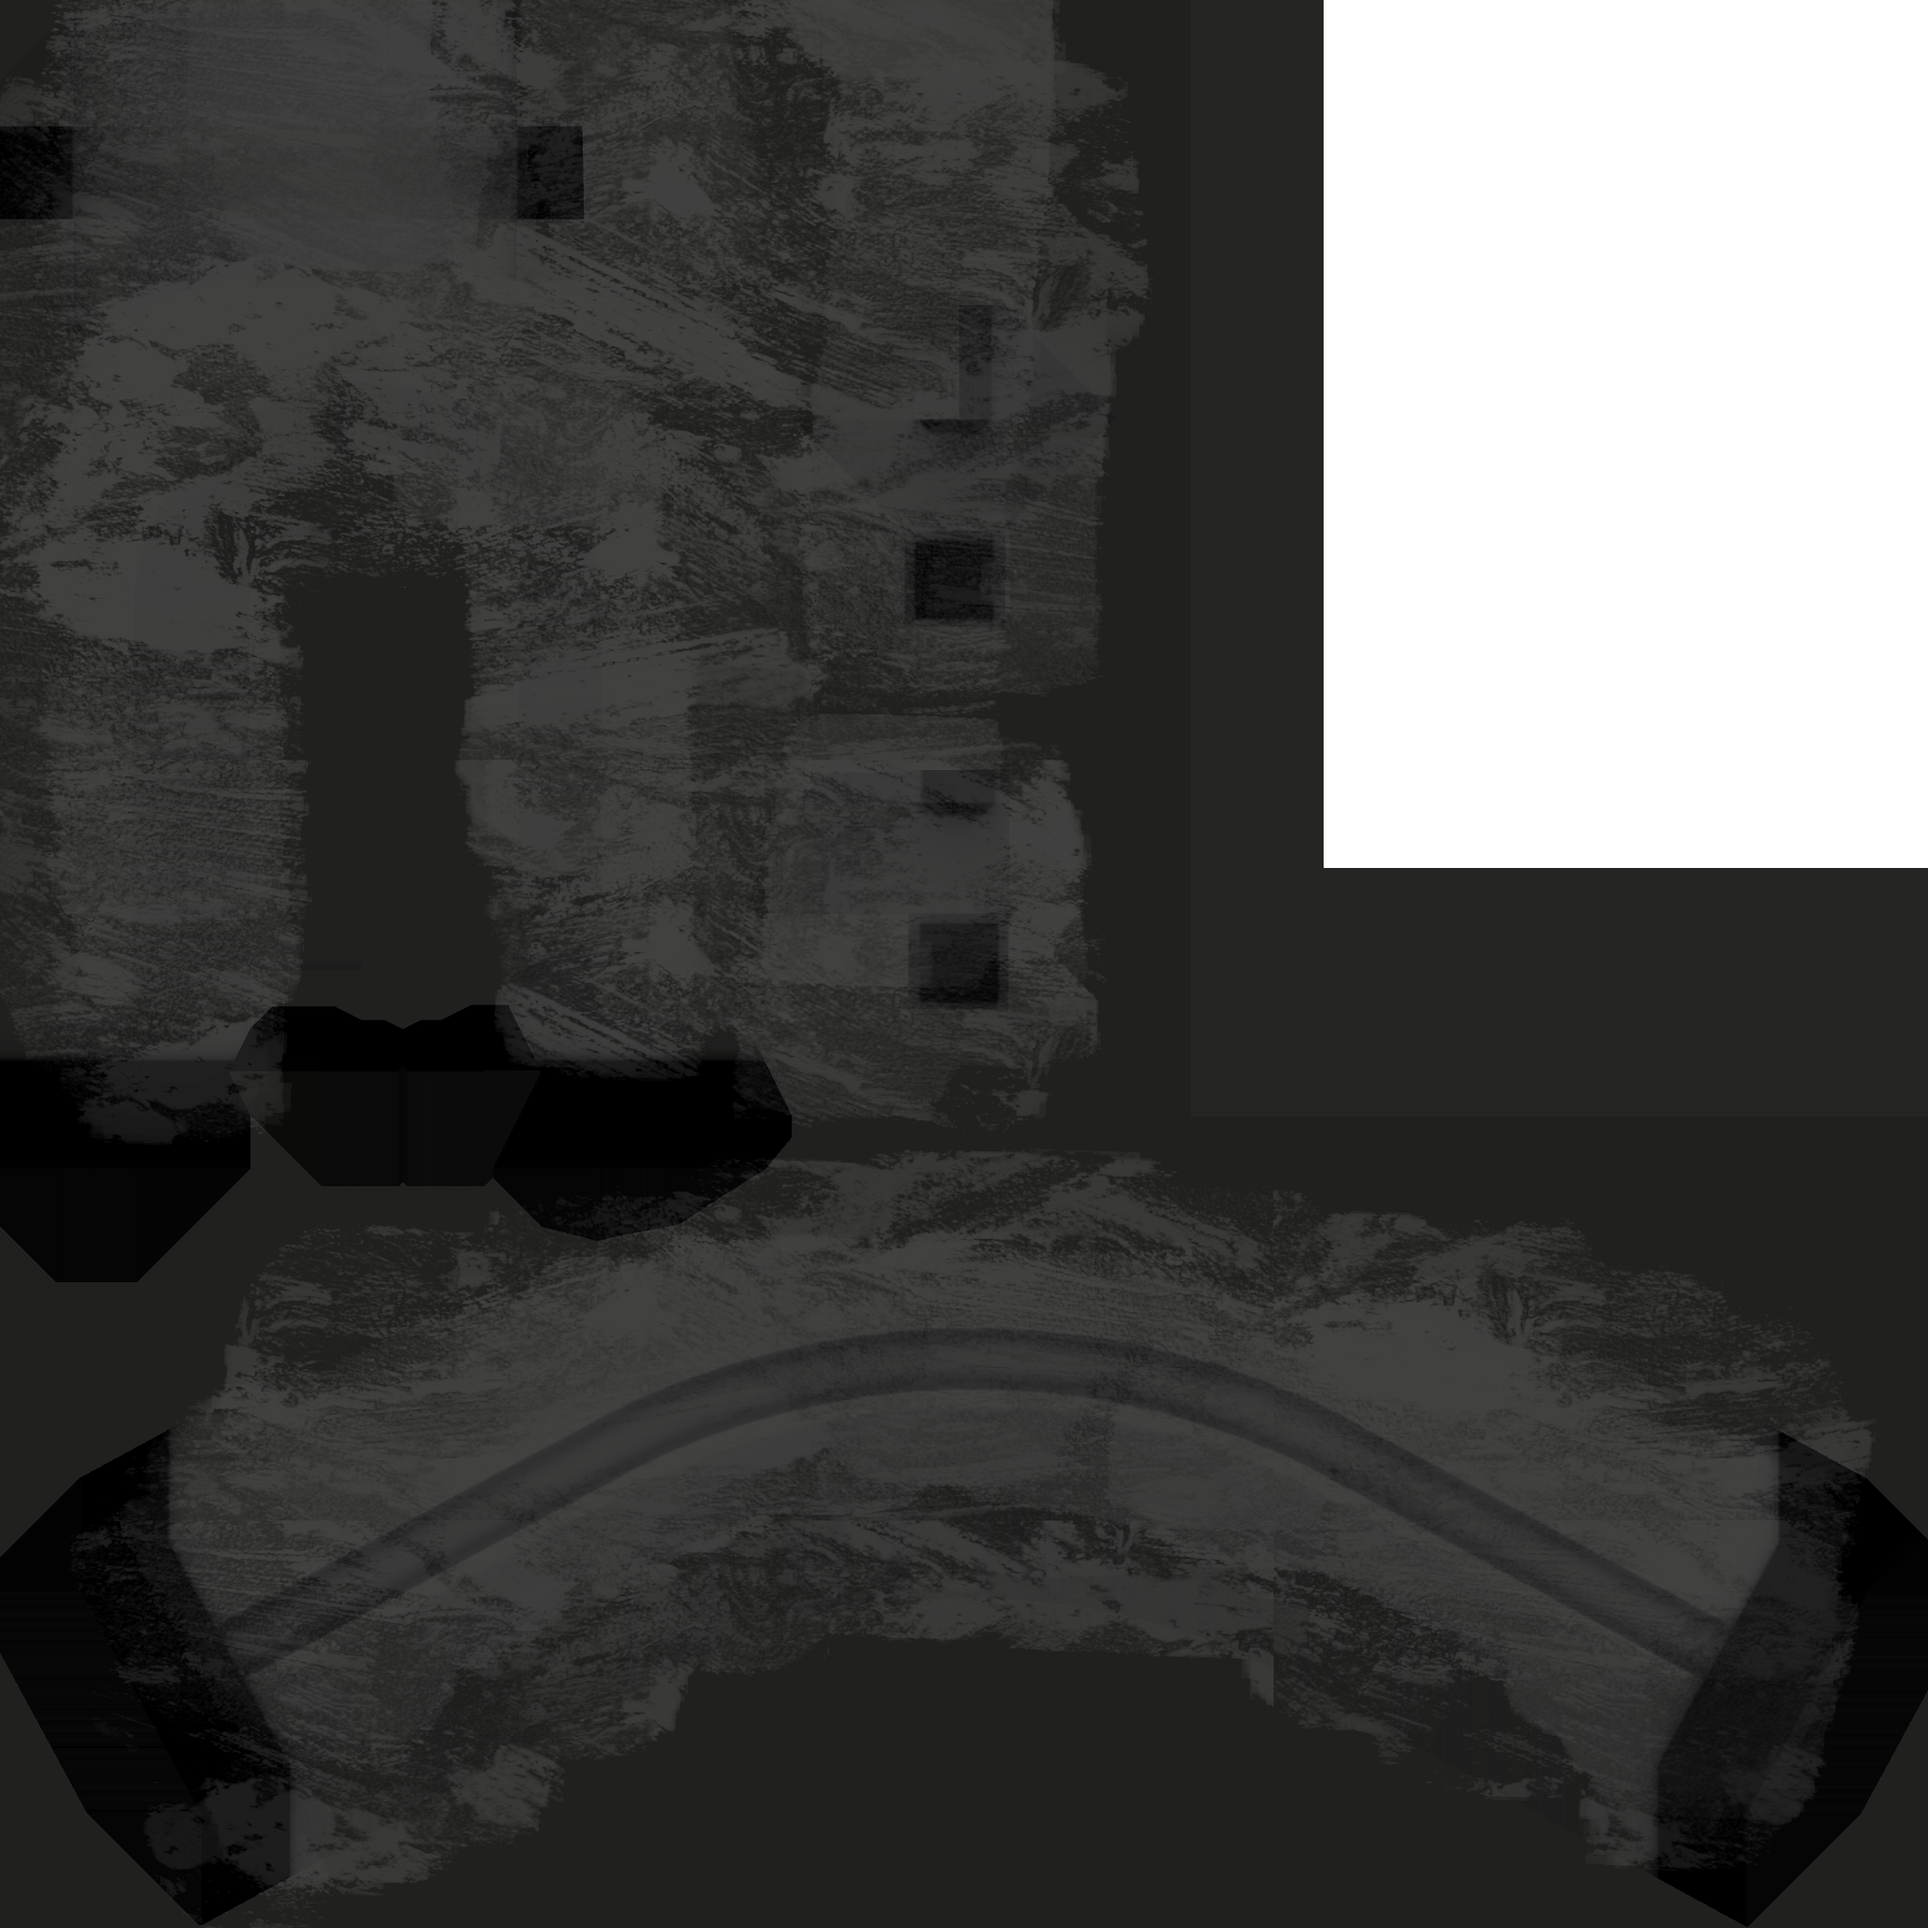
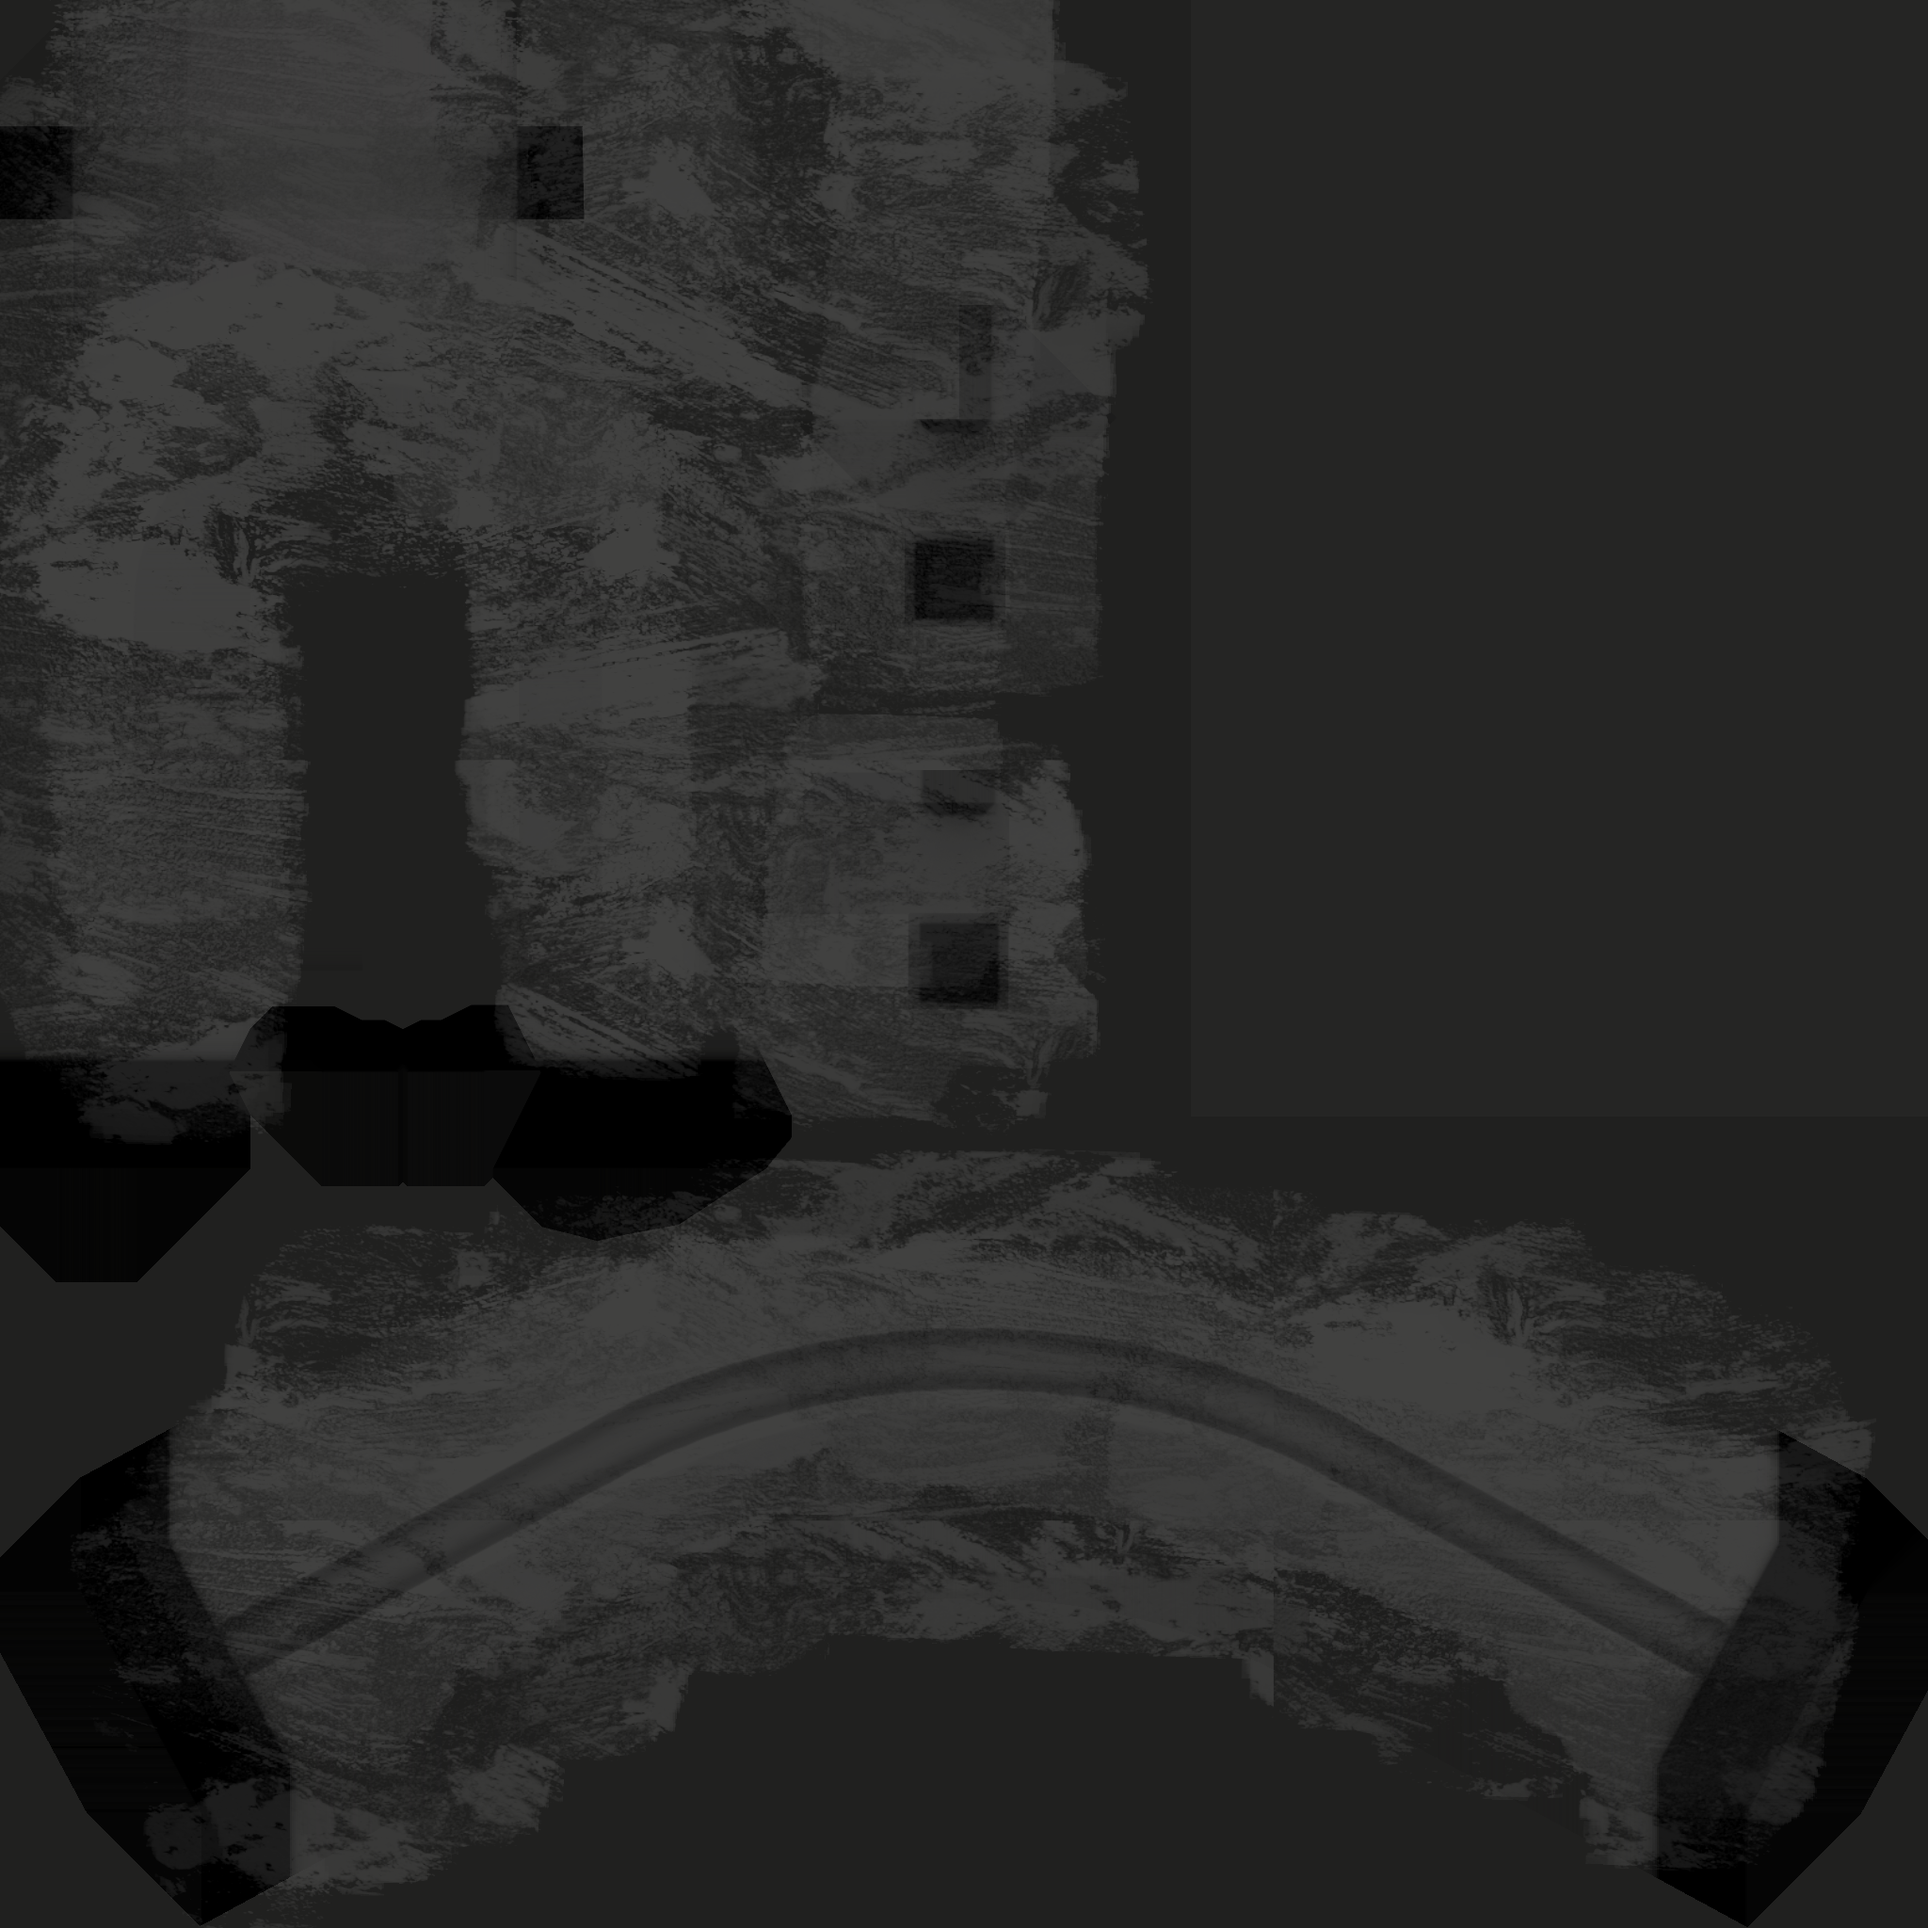
Update the portal archway
Former-commit-id: 7b47f1d974c4bf63802d9323e5895ac5ba22200c

Changed region(s): [[0.6875, 0.0, 1.0, 0.4688]]

diff --git a/Figment/js/model/PortalItems.js b/Figment/js/model/PortalItems.js
@@ -15,7 +15,10 @@ var PortalItems = [
     "scale": [1, 1, 1],
     "portalScale": [.4, .4, .4], // scale on the portal, normalizes its height to ~1
     "position": [0, .5, 0],
-    "resources": [require('../res/portal_archway/portal_archway_normal.png'), require('../res/portal_archway/portal_archway_diffuse.png'),require('../res/portal_archway/portal_archway_specular.png')],
+    "resources": [require('../res/portal_archway/portal_archway_normal.png'),
+                  require('../res/portal_archway/portal_archway_diffuse.png'),
+                  require('../res/portal_archway/portal_archway_specular.png'),
+                  require('../res/portal_archway/portal_entry.png')],
   },
   {
     "selected": false,
